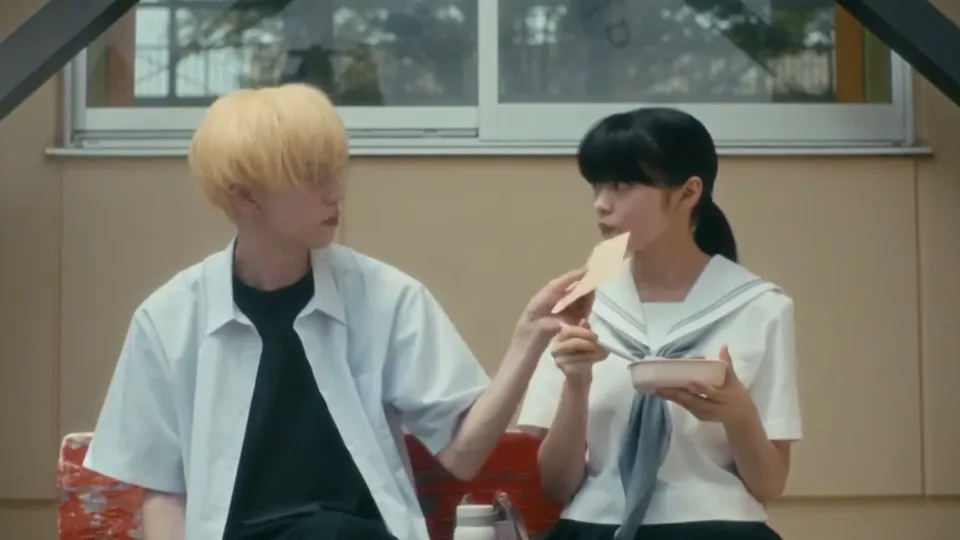
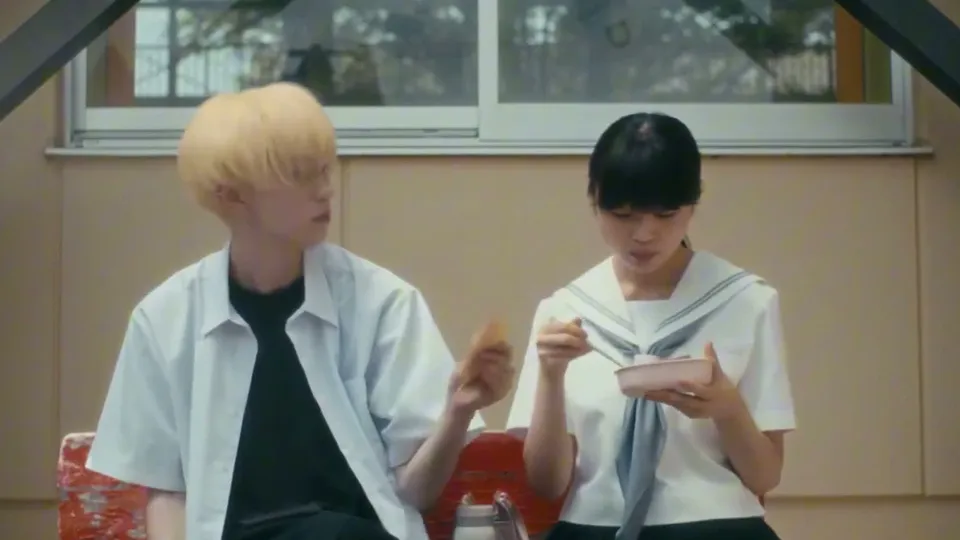
歡迎回來，初戀。互動頁：再一次與牽手兩面各兩張劇照、午餐改餵食畫面、分開與喜歡換更有代表性的劇照

diff --git a/drama/welcome-back-first-love/index.html b/drama/welcome-back-first-love/index.html
@@ -45,7 +45,7 @@
 <link rel="manifest" href="/site.webmanifest">
 <link rel="preconnect" href="https://fonts.googleapis.com">
 <link rel="preconnect" href="https://fonts.gstatic.com" crossorigin>
-<link rel="stylesheet" href="https://fonts.googleapis.com/css2?family=Klee+One:wght@600&amp;display=swap&amp;text=%E3%80%81%E3%80%82%E3%81%82%E3%81%84%E3%81%86%E3%81%88%E3%81%8A%E3%81%8B%E3%81%8C%E3%81%8D%E3%81%8F%E3%81%91%E3%81%93%E3%81%94%E3%81%95%E3%81%97%E3%81%98%E3%81%99%E3%81%9A%E3%81%9D%E3%81%9F%E3%81%A0%E3%81%A1%E3%81%A3%E3%81%A6%E3%81%A7%E3%81%A8%E3%81%A9%E3%81%AA%E3%81%AB%E3%81%AD%E3%81%AE%E3%81%AF%E3%81%B0%E3%81%B5%E3%81%B9%E3%81%BE%E3%82%80%E3%82%82%E3%82%83%E3%82%84%E3%82%87%E3%82%88%E3%82%89%E3%82%8A%E3%82%8B%E3%82%8C%E3%82%8F%E3%82%93%E4%B8%80%E4%B8%8A%E4%B8%A6%E4%BA%9B%E4%BA%BA%E4%BB%8B%E4%BB%96%E4%BB%A5%E4%BC%BC%E4%BD%A0%E4%BF%82%E4%BF%BA%E5%80%91%E5%83%8F%E5%85%88%E5%86%8D%E5%86%B0%E5%87%AA%E5%87%BA%E5%88%86%E5%89%8D%E5%8D%81%E5%8D%88%E5%8D%A1%E5%8E%9F%E5%8F%8B%E5%8F%A3%E5%90%88%E5%90%9B%E5%92%8C%E5%95%8F%E5%96%9C%E5%9B%9E%E5%9C%A8%E5%9D%90%E5%A3%B0%E5%A4%89%E5%A4%A9%E5%A5%BD%E5%AB%8C%E5%AC%89%E5%B1%80%E5%B1%B1%E5%B8%B8%E5%B9%B4%E5%BA%A7%E5%BC%81%E5%BD%93%E5%BE%8C%E6%80%9D%E6%81%A5%E6%86%B6%E6%89%8B%E6%8A%9C%E6%8E%A5%E6%95%B5%E6%96%B9%E6%97%81%E6%97%A5%E6%98%8E%E6%98%AF%E6%99%82%E6%99%AF%E6%9B%B8%E6%9C%89%E6%9C%A8%E6%9C%AC%E6%9F%8F%E6%A0%B9%E6%A5%BD%E6%AC%A1%E6%AD%A1%E6%B4%9E%E6%B6%BC%E6%BC%AB%E7%89%A9%E7%89%BD%E7%94%B0%E7%95%AB%E7%9A%84%E7%9B%B8%E7%9C%8B%E7%9E%AC%E7%A5%AD%E7%B4%A0%E7%B7%92%E7%B9%8B%E7%B9%94%E7%BF%BB%E8%80%B3%E8%82%A9%E8%89%B2%E8%91%97%E8%A6%8B%E8%A7%92%E8%A8%80%E8%A9%A9%E8%A9%B1%E8%AA%AC%E8%AA%AD%E8%AA%B0%E8%AE%80%E8%B6%B3%E9%81%94%E9%82%84%E9%82%8A%E9%96%8B%E9%96%93%E9%97%9C%E9%9B%A2%E9%9D%A2%E9%A1%8C%E9%A3%9F%E9%A4%90%EF%BC%8C%EF%BC%8F%EF%BC%9A%EF%BC%9F">
+<link rel="stylesheet" href="https://fonts.googleapis.com/css2?family=Klee+One:wght@600&amp;display=swap&amp;text=%E3%80%81%E3%80%82%E3%81%82%E3%81%84%E3%81%86%E3%81%88%E3%81%8A%E3%81%8B%E3%81%8C%E3%81%8D%E3%81%8F%E3%81%91%E3%81%93%E3%81%94%E3%81%95%E3%81%97%E3%81%98%E3%81%99%E3%81%9A%E3%81%9D%E3%81%9F%E3%81%A0%E3%81%A1%E3%81%A3%E3%81%A6%E3%81%A7%E3%81%A8%E3%81%A9%E3%81%AA%E3%81%AB%E3%81%AD%E3%81%AE%E3%81%AF%E3%81%B0%E3%81%B5%E3%81%B9%E3%81%BE%E3%82%80%E3%82%82%E3%82%83%E3%82%84%E3%82%87%E3%82%88%E3%82%89%E3%82%8A%E3%82%8B%E3%82%8C%E3%82%8F%E3%82%93%E4%B8%80%E4%B8%8A%E4%B8%A6%E4%BA%9B%E4%BA%BA%E4%BB%8B%E4%BB%96%E4%BB%A5%E4%BC%BC%E4%BD%A0%E4%BF%82%E4%BF%BA%E5%80%91%E5%83%8F%E5%85%88%E5%86%8D%E5%86%B0%E5%87%AA%E5%87%BA%E5%88%86%E5%89%8D%E5%8D%81%E5%8D%88%E5%8D%A1%E5%8E%9F%E5%8F%8B%E5%8F%A3%E5%90%88%E5%90%9B%E5%92%8C%E5%95%8F%E5%96%9C%E5%9B%9E%E5%9C%A8%E5%9D%90%E5%A3%B0%E5%A4%89%E5%A4%A9%E5%A5%BD%E5%AB%8C%E5%AC%89%E5%AD%A6%E5%B1%80%E5%B1%B1%E5%B8%B8%E5%B9%B4%E5%BA%A7%E5%BC%81%E5%BD%93%E5%BE%8C%E6%80%9D%E6%81%A5%E6%86%B6%E6%89%8B%E6%8A%9C%E6%8E%A5%E6%95%B5%E6%96%B9%E6%97%81%E6%97%A5%E6%98%8E%E6%98%AF%E6%99%82%E6%99%AF%E6%9B%B8%E6%9C%89%E6%9C%A8%E6%9F%8F%E6%A0%A1%E6%A0%B9%E6%A5%BD%E6%AC%A1%E6%AD%A1%E6%B4%9E%E6%B6%BC%E6%BC%AB%E7%89%A9%E7%89%BD%E7%94%B0%E7%95%AB%E7%9A%84%E7%9B%B8%E7%9C%8B%E7%9E%AC%E7%A7%81%E7%B4%A0%E7%B7%92%E7%B9%94%E7%BF%BB%E8%80%B3%E8%82%A9%E8%89%B2%E8%91%97%E8%A6%8B%E8%A7%92%E8%A8%80%E8%A9%A9%E8%A9%B1%E8%AA%AC%E8%AA%AD%E8%AA%B0%E8%AE%80%E8%B6%B3%E9%81%94%E9%82%84%E9%82%8A%E9%96%8B%E9%96%93%E9%97%9C%E9%9A%A3%E9%9B%A2%E9%9D%A2%E9%A1%8C%E9%A3%9F%E9%A4%90%EF%BC%8C%EF%BC%8F%EF%BC%9A%EF%BC%9F">
 <script type="application/ld+json">
 {"@context":"https://schema.org","@type":"TVSeries","name":"歡迎回來，初戀。","alternateName":["おかえり、初恋。","Welcome back, First love."],"inLanguage":"ja","numberOfEpisodes":8,"startDate":"2026-10-08","genre":["Romance","Drama"],"actor":[{"@type":"Person","name":"樋口幸平"},{"@type":"Person","name":"林芽亜里"}],"author":{"@type":"Person","name":"かめみずとら"},"url":"https://story.knittinghiyori.com/drama/welcome-back-first-love/","sameAs":"https://knittinghiyori.com/welcome-back-first-love/"}
 </script>
@@ -119,7 +119,8 @@ h3{font-size:17px;margin:26px 0 10px}
 .wb-q span{display:block;font-family:var(--hand);font-weight:600;font-size:19px;line-height:1.5}
 .wb-q small{display:block;font-size:14px;color:var(--ink2)}
 .wb-pic{display:block;width:100%;height:auto;aspect-ratio:16/9;object-fit:cover;border-radius:12px;margin:0 0 12px}
-.wb-pic.tall{aspect-ratio:auto}
+.wb-pics{display:grid;gap:6px;margin:0 0 12px}
+.wb-pics .wb-pic{margin:0}
 .wb-flip{margin-top:auto;align-self:stretch;min-height:46px;border-radius:999px;border:1.5px solid currentColor;background:#fff;font:inherit;font-weight:700;cursor:pointer}
 .wb-front .wb-flip{color:var(--sky-d)}
 .wb-back .wb-flip{color:var(--coral-d)}
@@ -271,16 +272,16 @@ footer a{color:var(--ink3)}
         <div class="wb-face wb-front">
           <span class="wb-tag">十年前・高中</span>
           <p class="wb-topic">再一次</p>
-          <img class="wb-pic" src="/assets/welcome-back-first-love/ep1-again-sneaking-out-high-school.webp" width="960" height="540" loading="lazy" decoding="async" alt="歡迎回來，初戀。第1集高中回憶，金髮的田口涼介和山根詩織溜出學校走在草地旁">
-          <p class="wb-scene">兩個人一起溜出教室吃完冰，分開前，他隨口說了一句：</p>
+          <div class="wb-pics"><img class="wb-pic" src="/assets/welcome-back-first-love/ep1-again-sneaking-out-high-school.webp" width="960" height="540" loading="lazy" decoding="async" alt="歡迎回來，初戀。第1集高中回憶，金髮的田口涼介和山根詩織溜出學校走在草地旁"><img class="wb-pic" src="/assets/welcome-back-first-love/ep1-again-high-school-smiling.webp" width="960" height="540" loading="lazy" decoding="async" alt="歡迎回來，初戀。第1集高中回憶，金髮的田口涼介和山根詩織在夕陽下笑著對看"></div>
+          <p class="wb-scene">兩個人一起溜出教室吃完冰，笑著分開前，他隨口說了一句：</p>
           <p class="wb-q" lang="ja"><span>じゃあまた抜け出すか</span><small lang="zh-Hant">那下次再一起溜出去吧</small></p>
           <button type="button" class="wb-flip" data-interact="flip_again">翻到十年後 ↻</button>
         </div>
         <div class="wb-face wb-back">
           <span class="wb-tag">十年後・現在</span>
           <p class="wb-topic">再一次</p>
-          <img class="wb-pic tall" src="/assets/welcome-back-first-love/ep1-again-more-than-friends.webp" width="720" height="966" loading="lazy" decoding="async" alt="歡迎回來，初戀。第1集，田口涼介靠近山根詩織說不只是朋友、兩人在夜裡對望、高中時兩人笑著對看">
-          <p class="wb-scene">十年後，換她鼓起勇氣問能不能再變熟。他的回答，比她想的多一點：</p>
+          <div class="wb-pics"><img class="wb-pic" src="/assets/welcome-back-first-love/ep1-again-leaning-close.webp" width="960" height="540" loading="lazy" decoding="async" alt="歡迎回來，初戀。第1集，田口涼介靠近山根詩織"><img class="wb-pic" src="/assets/welcome-back-first-love/ep1-again-eye-contact-at-night.webp" width="960" height="540" loading="lazy" decoding="async" alt="歡迎回來，初戀。第1集，田口涼介和山根詩織在夜裡對望"></div>
+          <p class="wb-scene">十年後，換她鼓起勇氣問能不能再變熟。他靠過來，回答比她想的多一點：</p>
           <p class="wb-q" lang="ja"><span>友達以上にな</span><small lang="zh-Hant">不只是朋友那種喔</small></p>
           <button type="button" class="wb-flip" data-interact="flip_again">翻回十年前 ↻</button>
         </div>
@@ -296,16 +297,16 @@ footer a{color:var(--ink3)}
         <div class="wb-face wb-front">
           <span class="wb-tag">十年前・高中</span>
           <p class="wb-topic">午餐</p>
-          <img class="wb-pic" src="/assets/welcome-back-first-love/ep2-lunch-high-school.webp" width="960" height="540" loading="lazy" decoding="async" alt="歡迎回來，初戀。第2集高中回憶，田口涼介和山根詩織坐在一起吃午餐">
-          <p class="wb-scene">高中午休，他看著她小小的便當，忍不住問：</p>
+          <img class="wb-pic" src="/assets/welcome-back-first-love/ep2-lunch-high-school.webp" width="960" height="540" loading="lazy" decoding="async" alt="歡迎回來，初戀。第2集高中回憶，田口涼介把麵包分給山根詩織吃">
+          <p class="wb-scene">高中午休，他看著她小小的便當問夠不夠吃，還把便利商店的麵包遞給她：</p>
           <p class="wb-q" lang="ja"><span>なあ、弁当そんなに足りんの？</span><small lang="zh-Hant">欸，便當那麼一點夠吃嗎？</small></p>
           <button type="button" class="wb-flip" data-interact="flip_lunch">翻到十年後 ↻</button>
         </div>
         <div class="wb-face wb-back">
           <span class="wb-tag">十年後・現在</span>
           <p class="wb-topic">午餐</p>
-          <img class="wb-pic" src="/assets/welcome-back-first-love/ep2-lunch-office.webp" width="960" height="540" loading="lazy" decoding="async" alt="歡迎回來，初戀。第2集，十年後田口涼介和山根詩織在公司外一起吃午餐">
-          <p class="wb-scene">十年後一起吃午餐，他看著她的便當，問了幾乎一樣的話：</p>
+          <img class="wb-pic" src="/assets/welcome-back-first-love/ep2-lunch-office.webp" width="960" height="540" loading="lazy" decoding="async" alt="歡迎回來，初戀。第2集，十年後田口涼介夾菜餵山根詩織">
+          <p class="wb-scene">十年後一起吃午餐，他問了一樣的話，又夾起自己的菜餵她：</p>
           <p class="wb-q" lang="ja"><span>相変わらずそれで足りんの？</span><small lang="zh-Hant">還是吃那樣就夠了？</small></p>
           <button type="button" class="wb-flip" data-interact="flip_lunch">翻回十年前 ↻</button>
         </div>
@@ -392,7 +393,7 @@ footer a{color:var(--ink3)}
         <div class="wb-face wb-back">
           <span class="wb-tag">十年後・現在</span>
           <p class="wb-topic">分開</p>
-          <img class="wb-pic" src="/assets/welcome-back-first-love/ep3-leave-now.webp" width="960" height="540" loading="lazy" decoding="async" alt="歡迎回來，初戀。第3集，山根詩織說出不想再和田口分開">
+          <img class="wb-pic" src="/assets/welcome-back-first-love/ep3-leave-now.webp" width="960" height="540" loading="lazy" decoding="async" alt="歡迎回來，初戀。第3集，山根詩織向前輩說出不想再和田口分開">
           <p class="wb-scene">十年後被告白，她遲遲不敢答應，終於說出心裡的害怕：</p>
           <p class="wb-q" lang="ja"><span>もう離れるのは、嫌だ</span><small lang="zh-Hant">我不想再分開了</small></p>
           <button type="button" class="wb-flip" data-interact="flip_leave">翻回十年前 ↻</button>
@@ -426,16 +427,16 @@ footer a{color:var(--ink3)}
         <div class="wb-face wb-front">
           <span class="wb-tag">十年前・高中</span>
           <p class="wb-topic">牽手</p>
-          <img class="wb-pic" src="/assets/welcome-back-first-love/ep3-hand-recalling-festival.webp" width="960" height="540" loading="lazy" decoding="async" alt="歡迎回來，初戀。第3集，田口涼介和山根詩織並肩坐著，聊起高中祭典牽手的回憶">
-          <p class="wb-scene">高中的夏日祭典，他們牽過一次手。十年後他說起那天，說自己當時心跳得好快：</p>
-          <p class="wb-q" lang="ja"><span>祭りで手繋いだ時</span><small lang="zh-Hant">在祭典牽手那次</small></p>
+          <div class="wb-pics"><img class="wb-pic" src="/assets/welcome-back-first-love/ep3-hand-festival-night-walk.webp" width="960" height="540" loading="lazy" decoding="async" alt="歡迎回來，初戀。第3集高中回憶，夏日祭典那晚，金髮的田口涼介和山根詩織走在掛著燈的夜路上"><img class="wb-pic" src="/assets/welcome-back-first-love/ep3-hand-festival-night-goodbye.webp" width="960" height="540" loading="lazy" decoding="async" alt="歡迎回來，初戀。第3集高中回憶，祭典那晚山根詩織揮手和田口涼介道別"></div>
+          <p class="wb-scene">高中的夏日祭典，他們牽過一次手。那晚走到岔路口，她揮揮手說：</p>
+          <p class="wb-q" lang="ja"><span>じゃあ私あっちだから、また学校でね</span><small lang="zh-Hant">那我往這邊走了，學校見</small></p>
           <button type="button" class="wb-flip" data-interact="flip_hand">翻到十年後 ↻</button>
         </div>
         <div class="wb-face wb-back">
           <span class="wb-tag">十年後・現在</span>
           <p class="wb-topic">牽手</p>
-          <img class="wb-pic" src="/assets/welcome-back-first-love/ep3-hand-holding-date.webp" width="960" height="540" loading="lazy" decoding="async" alt="歡迎回來，初戀。第3集約會，山根詩織牽起田口涼介的手">
-          <p class="wb-scene">約會時有人來搭訕，她自己牽起他的手：</p>
+          <div class="wb-pics"><img class="wb-pic" src="/assets/welcome-back-first-love/ep3-hand-recalling-festival.webp" width="960" height="540" loading="lazy" decoding="async" alt="歡迎回來，初戀。第3集，田口涼介和山根詩織並肩坐著，聊起高中祭典牽手的回憶"><img class="wb-pic" src="/assets/welcome-back-first-love/ep3-hand-holding-date.webp" width="960" height="540" loading="lazy" decoding="async" alt="歡迎回來，初戀。第3集約會，山根詩織牽起田口涼介的手"></div>
+          <p class="wb-scene">十年後他說起祭典牽手那次，自己心跳得好快。約會時有人來搭訕，這次換她牽起他的手：</p>
           <p class="wb-q" lang="ja"><span>こうすれば、もう、声かけられないよね</span><small lang="zh-Hant">這樣就不會再有人來搭訕了吧</small></p>
           <button type="button" class="wb-flip" data-interact="flip_hand">翻回十年前 ↻</button>
         </div>
@@ -447,16 +448,16 @@ footer a{color:var(--ink3)}
         <div class="wb-face wb-front">
           <span class="wb-tag">十年前・高中</span>
           <p class="wb-topic">喜歡</p>
-          <img class="wb-pic" src="/assets/welcome-back-first-love/ep3-like-high-school-smile.webp" width="960" height="540" loading="lazy" decoding="async" alt="歡迎回來，初戀。第3集回憶，高中時笑著的山根詩織">
-          <p class="wb-scene">她從小怕生，高中入學時好不安。然後，她遇見了田口：</p>
-          <p class="wb-q" lang="ja"><span>田口君とお友達になれて、本当に嬉しかった</span><small lang="zh-Hant">能和田口當朋友，我真的很開心</small></p>
+          <img class="wb-pic" src="/assets/welcome-back-first-love/ep3-like-high-school-festival-smile.webp" width="960" height="540" loading="lazy" decoding="async" alt="歡迎回來，初戀。第3集高中回憶，祭典那晚走在田口涼介身旁的山根詩織">
+          <p class="wb-scene">高中祭典那晚，走在他身邊，她心裡想的是：</p>
+          <p class="wb-q" lang="ja"><span>それでも、隣にいられればよかった</span><small lang="zh-Hant">就算這樣，只要能待在你身邊就好</small></p>
           <button type="button" class="wb-flip" data-interact="flip_like">翻到十年後 ↻</button>
         </div>
         <div class="wb-face wb-back">
           <span class="wb-tag">十年後・現在</span>
           <p class="wb-topic">喜歡</p>
-          <img class="wb-pic" src="/assets/welcome-back-first-love/ep3-like-confession.webp" width="960" height="540" loading="lazy" decoding="async" alt="歡迎回來，初戀。第3集，山根詩織向田口涼介告白">
-          <p class="wb-scene">十年後，她替這份心情取了名字：</p>
+          <img class="wb-pic" src="/assets/welcome-back-first-love/ep3-like-face-to-face.webp" width="960" height="540" loading="lazy" decoding="async" alt="歡迎回來，初戀。第3集，山根詩織告白後和田口涼介面對面">
+          <p class="wb-scene">十年後，她替這份心情取了名字，說出口：</p>
           <p class="wb-q" lang="ja"><span>田口君のことが、好きです</span><small lang="zh-Hant">我喜歡田口</small></p>
           <button type="button" class="wb-flip" data-interact="flip_like">翻回十年前 ↻</button>
         </div>
